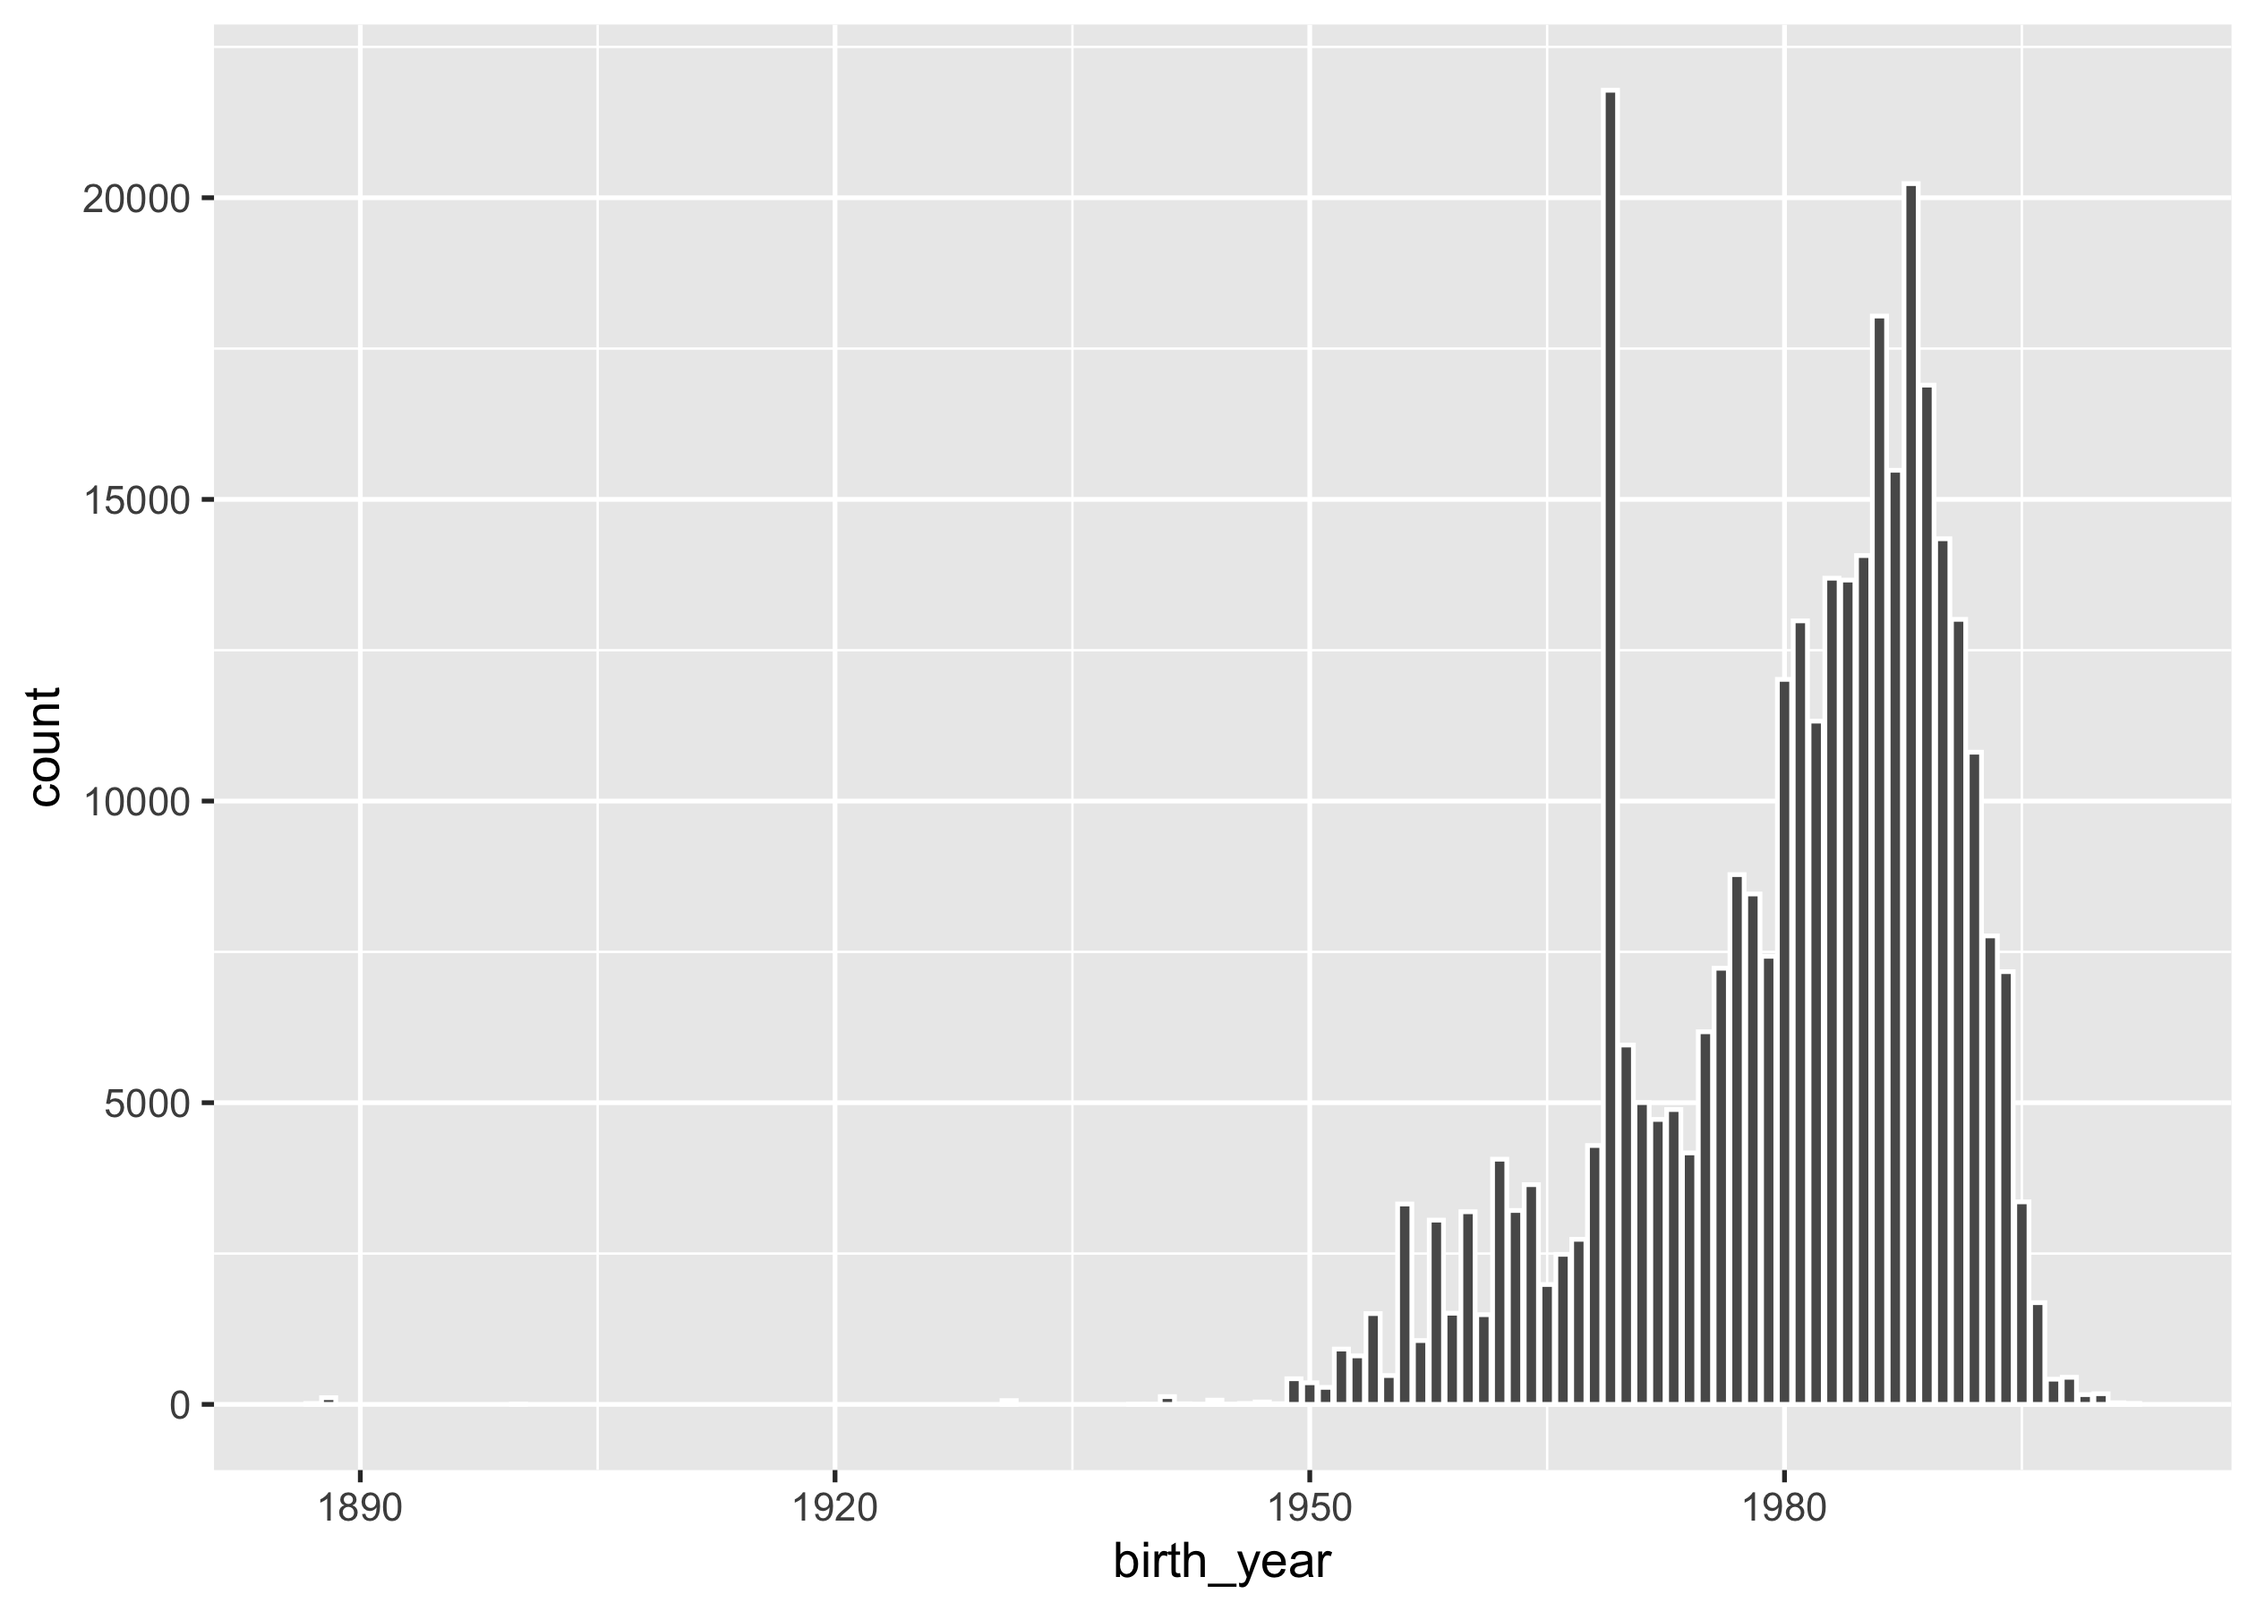
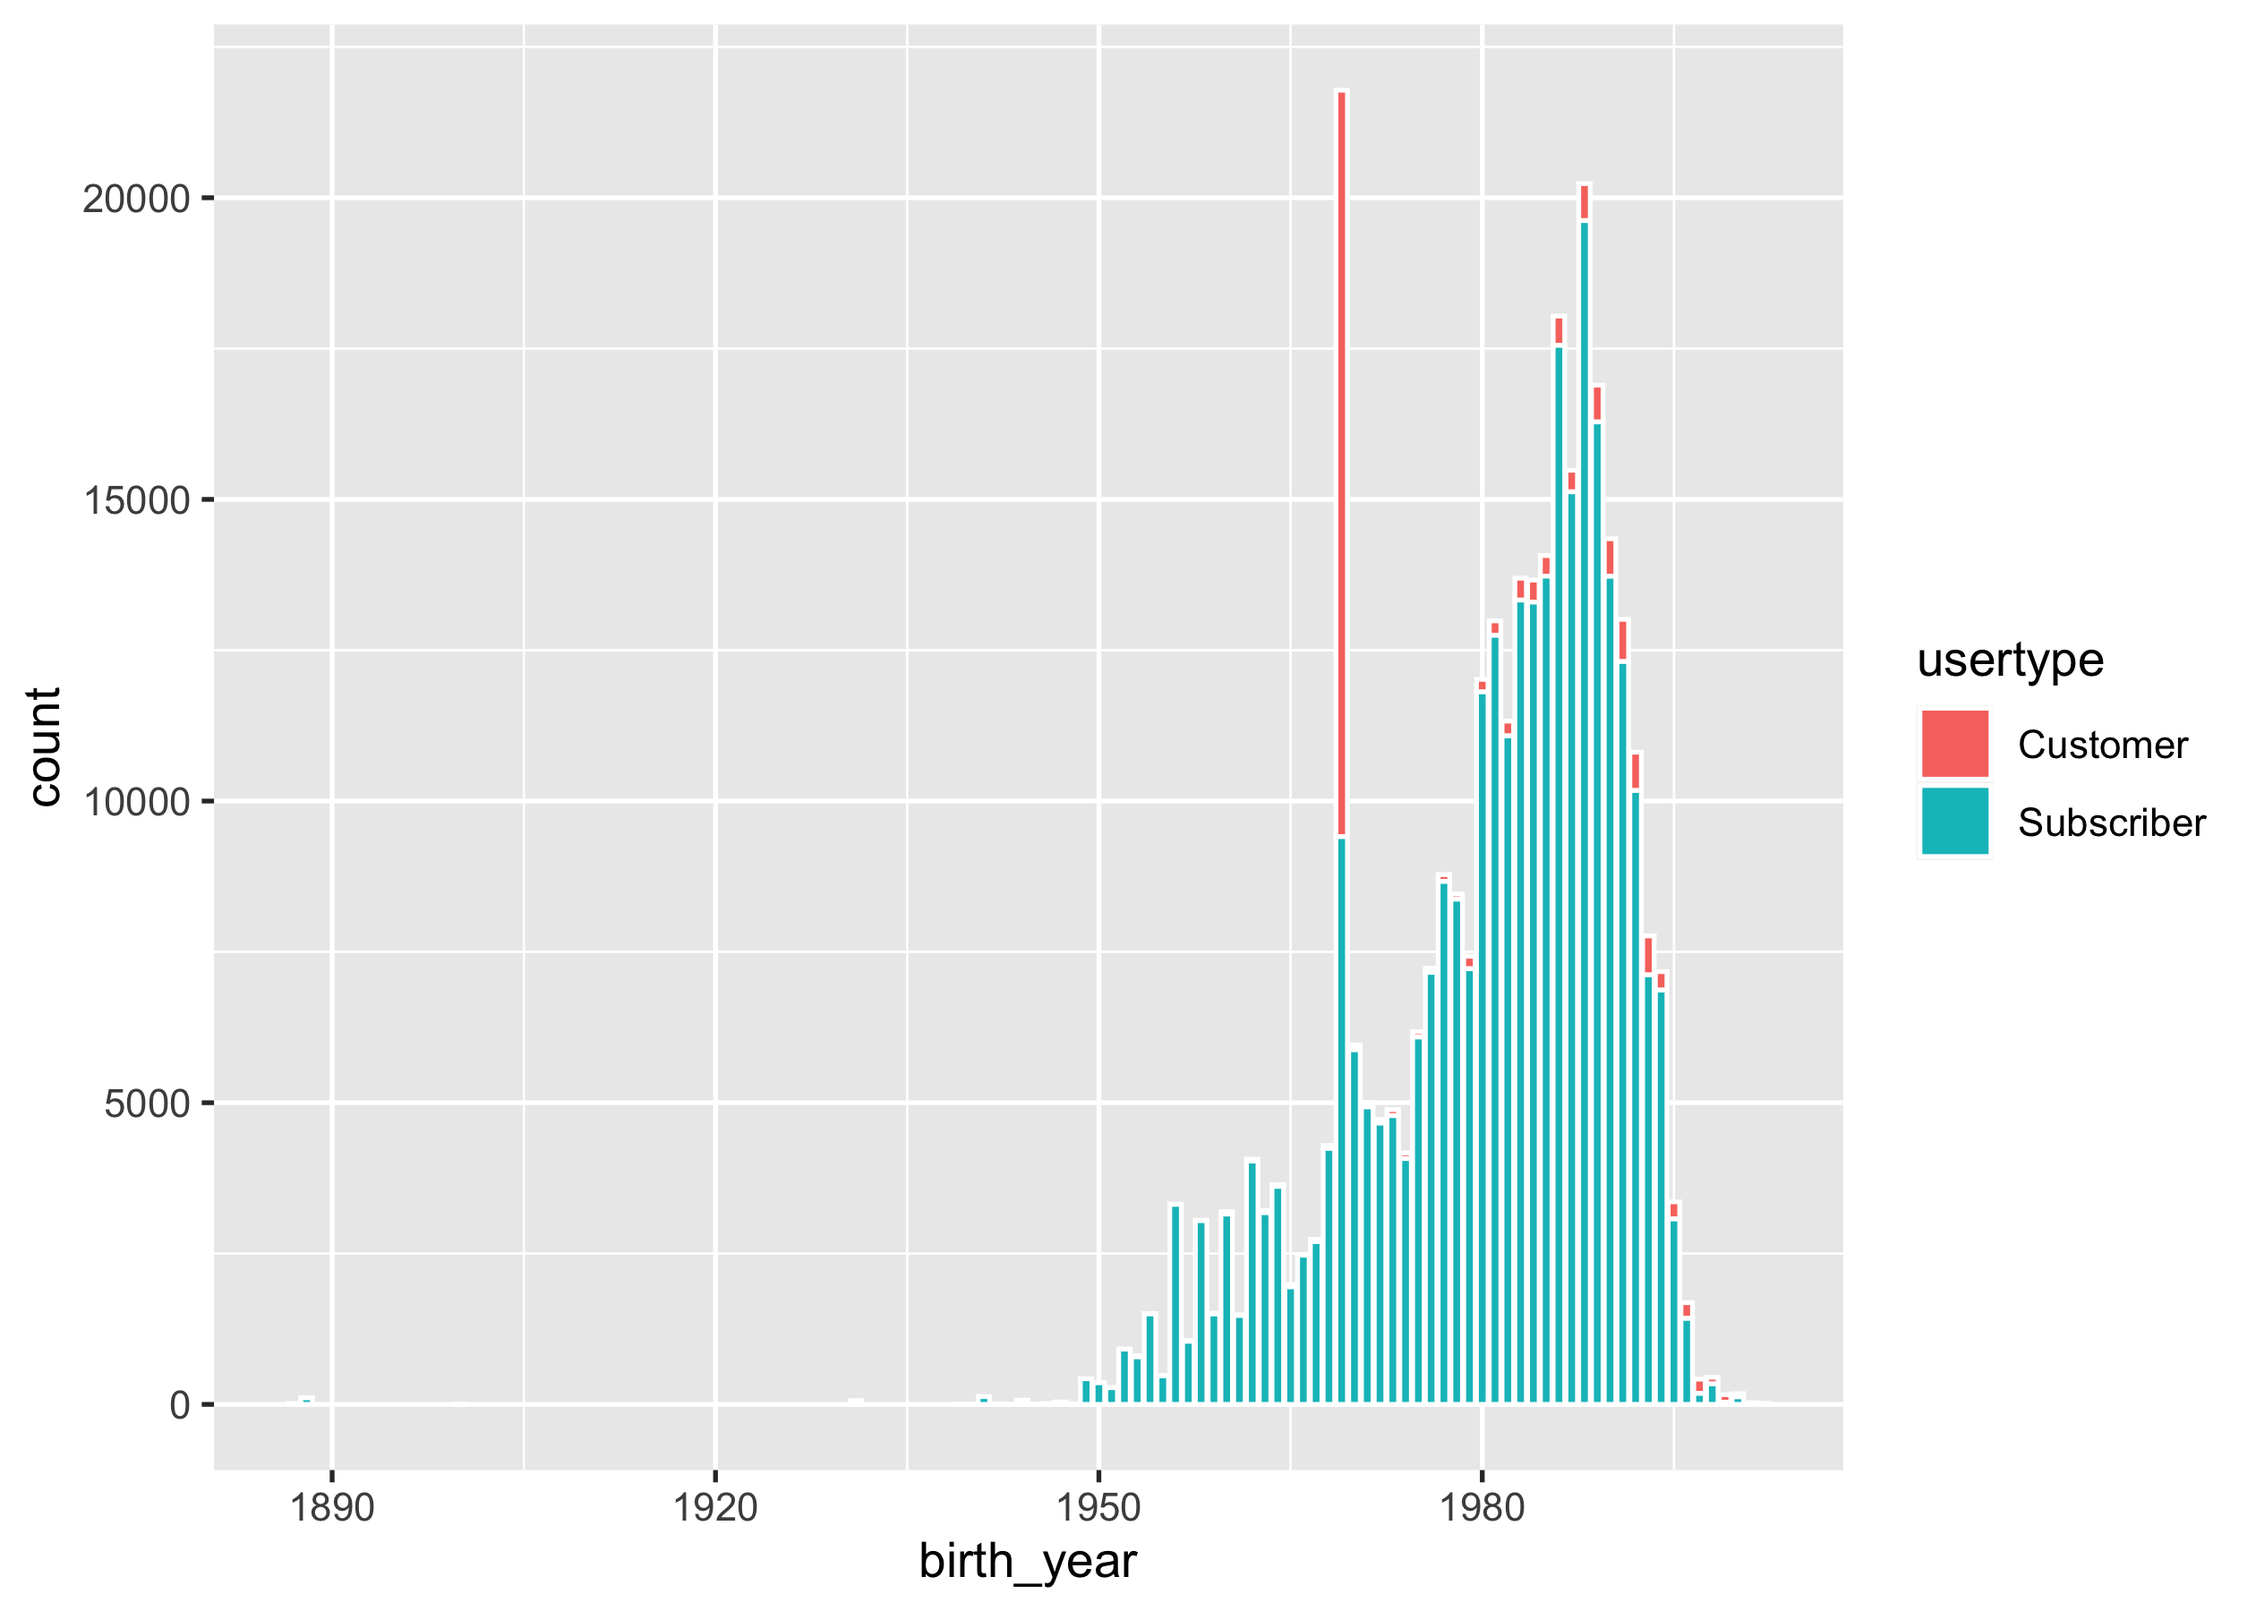
used fill

diff --git a/content/assignments/assignment1.md b/content/assignments/assignment1.md
@@ -1,4 +1,7 @@
 ---
+output: 
+  md_document:
+    preserve_yaml: true
 layout: page
 title: Assignment 1
 ---
@@ -9,9 +12,9 @@ This assignment is **due 23:59 Friday 26 March (NZDT)**.
     code that assigns **the appropriate values** to **the appropriate
     symbols**.
 -   Your R file will be executed in order and checked against the values
-    that have been assigned to the relevant symbols using an automatic
-    grading system. Marks will be fully deducted for **non-identical**
-    results.
+    that have been assigned to the relevant symbols using an
+    **automatic** grading system. Marks will be fully deducted for
+    **non-identical** results.
 -   Intermediate steps to achieve the final results will NOT be checked.
 -   Each question is worth 1 point.
 -   You should submit your R file on Canvas.
@@ -21,8 +24,22 @@ This assignment is **due 23:59 Friday 26 March (NZDT)**.
 ------------------------------------------------------------------------
 
 In this assignment, your are going to work with 2018 Citi Bike trip data
-in New York City (`2018-citibike-tripdata.csv`). You shall use the
-following packages for this assignment:
+in New York City (`2018-citibike-tripdata.csv`). The data includes:
+
+-   Trip Duration (seconds)
+-   Start Time and Date
+-   Stop Time and Date
+-   Start Station Name
+-   End Station Name
+-   Station ID
+-   Station Lat/Long
+-   Bike ID
+-   User Type (Customer = 24-hour pass or 3-day pass user; Subscriber =
+    Annual Member)
+-   Gender (Zero=unknown; 1=male; 2=female)
+-   Year of Birth
+
+You shall use the following packages for this assignment:
 
     library(tidyverse)
 
@@ -35,10 +52,10 @@ download `2018-citibike-tripdata.csv`
 to `data/` under your `Rproj`.
 
 -   You’re required to use **relative file paths
-    `data/2018-citibike-tripdata.csv`** to import these data.
+    `data/2018-citibike-tripdata.csv`** to import the data.
 -   NO marks will be given for using URL links or different file paths.
--   DO NOT apply any `theme()` and aesthetics other than I asked to your
-    plots.
+-   DO NOT apply any `theme()` and aesthetics other than what I asked to
+    your plots.
 -   DO NOT resize your plots, and leave all plots in their default
     widths and heights.
 
@@ -72,9 +89,9 @@ Read `data/2018-citibike-tripdata.csv` into R. You should end up with a
 ### Question 2
 
 Regarding `nycbikes18_raw`, you are interested in the total number of
-bike trips ridden by each age group in 2018. Plot a bar chart to address
-the question of interest. You should end up with a **ggplot** object
-called `p1`, with
+bike trips ridden by each age group and user type. Plot a bar chart to
+address the question of interest. You should end up with a **ggplot**
+object called `p1`, with
 
 -   `colour = "white"`.
 
@@ -116,7 +133,7 @@ should end up with a **tibble** called `nycbikes18`.
 
 ------------------------------------------------------------------------
 
-#### You shall work with `nycbikes18` for the rest of the assignment.
+##### ‼ You shall work with `nycbikes18` for the rest of the assignment.
 
 ### Question 4
 
@@ -165,7 +182,7 @@ Do younger customers ride for longer trips? Generate a scatter plot with
 `usertype` on rows and `gender` on columns. You should end up with a
 **ggplot** object named `p4` with
 
--   `size = 0.3`.
+-   `size = 0.5`.
 
 <!-- -->
 
